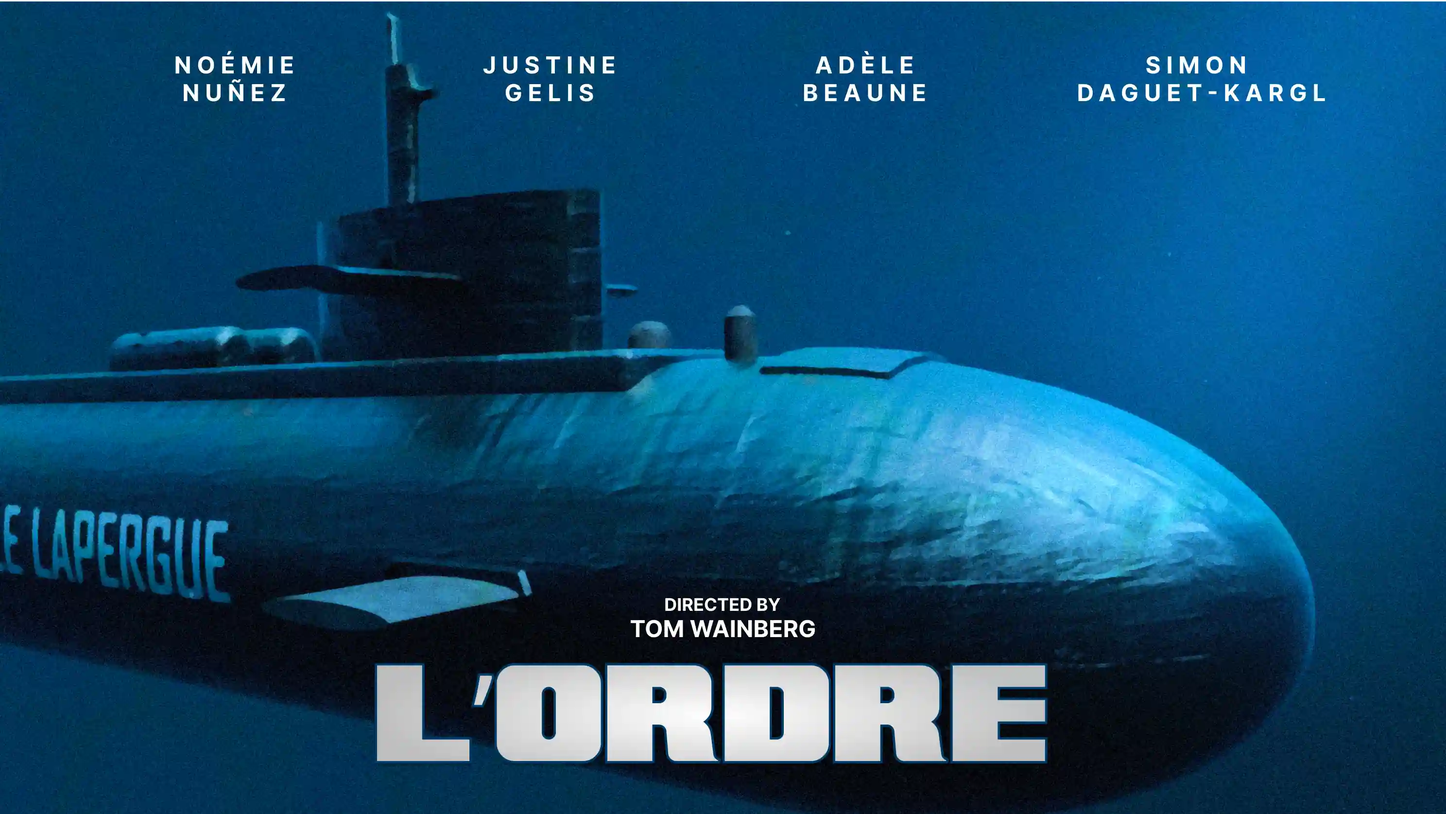
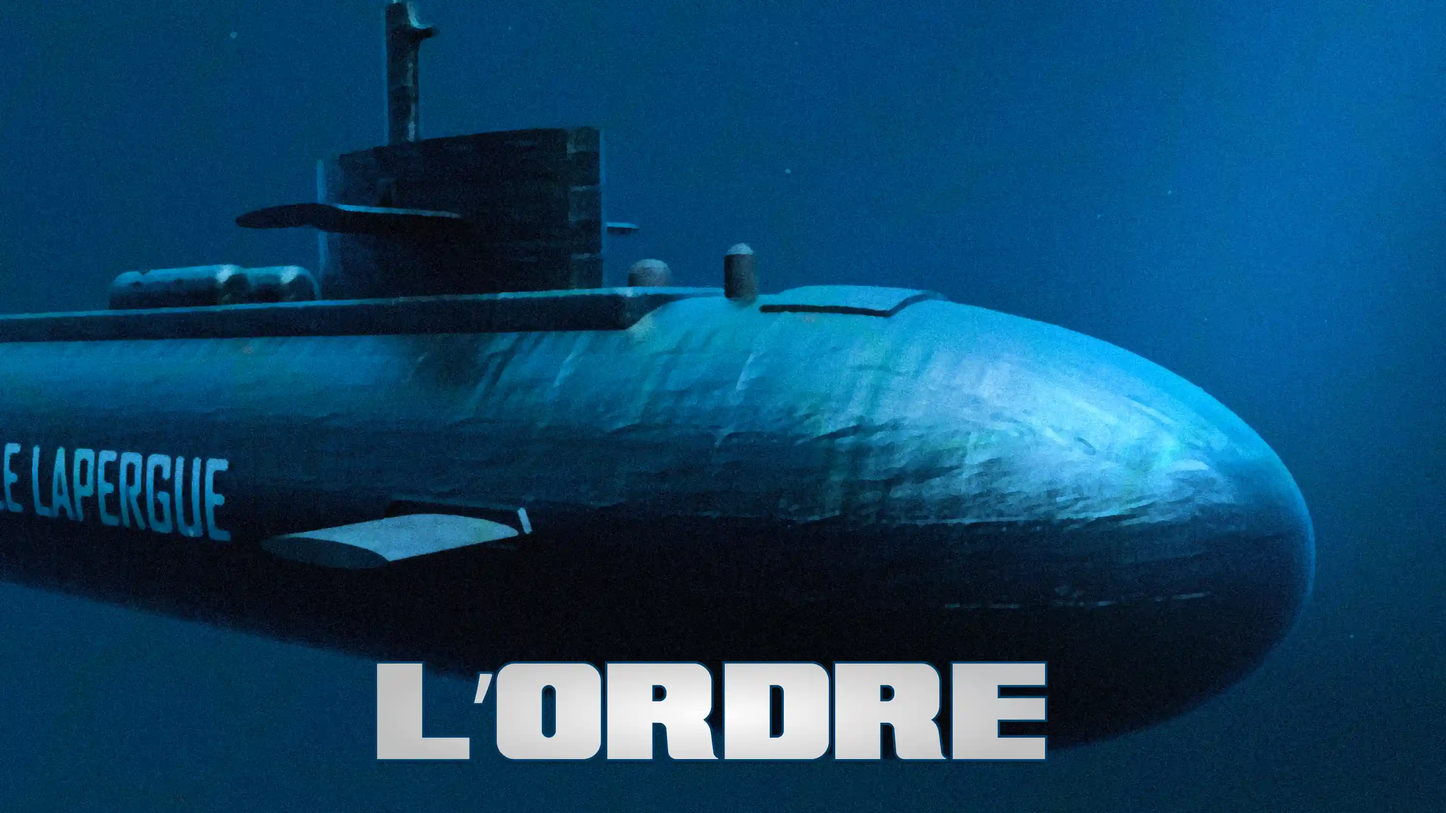
MAJ légère page l'ordre

diff --git a/pages/projects/lordre.html b/pages/projects/lordre.html
@@ -7,7 +7,7 @@
     <link rel="stylesheet" href="/css/main.css">
     <link rel="icon" href="/images/iconWebsite.png" />
     <script src="/js/handleMenu.js" defer></script>
-    <title>Tom Wainberg - Ébullition</title>
+    <title>Tom Wainberg - L'Ordre</title>
     <script defer src="/js/iframeResize.js"></script>
 </head>
 <body>
@@ -40,7 +40,7 @@
         </p>
        
         <p>
-            Tout cela a été réalisé dans un délai de 8 jours, dans le cadre de la formation MMI (mars 2024).
+            Tout cela a été réalisé dans un délai de 8 jours, dans le cadre de la formation MMI (octobre 2024).
         </p>
     </section>
 
@@ -73,8 +73,8 @@
 
 
         <div class="video">
-            <p>Ébullition - L'ennui est-il une fatalité ? :</p>
-            <iframe class="videoProject" width="80%" src="https://www.youtube.com/embed/I9My_hI-t4w?si=nkNOg7LEX996ejeU" title="L'Ennui" frameborder="0" allow="accelerometer; autoplay; clipboard-write; encrypted-media; gyroscope; picture-in-picture; web-share" referrerpolicy="strict-origin-when-cross-origin" allowfullscreen style="border-radius: 10px"></iframe>
+            <p>L'ORDRE - Court-Métrage :</p>
+            <iframe class="videoProject" width="80%" src="https://www.youtube.com/embed/4Bak-6d3PTU?si=lBMq7seRcOMmuiXB" title="L'Ordre" frameborder="0" allow="accelerometer; autoplay; clipboard-write; encrypted-media; gyroscope; picture-in-picture; web-share" referrerpolicy="strict-origin-when-cross-origin" allowfullscreen style="border-radius: 10px"></iframe>
         </div>
 
         <div class="boutons-back">

diff --git a/pages/projects.html b/pages/projects.html
@@ -89,7 +89,7 @@
             </div>
         </div></a>
 
-        <a href="/pages/projects/ebullition.html"><div class="project">
+        <a href="/pages/projects/lordre.html"><div class="project">
             <div class="background-image" style="background-image: url('/images/miniatures/minitiature-lordre.webp');background-size: cover;"></div>
             <div class="text">
                 <p class="title">L'Ordre</p>
